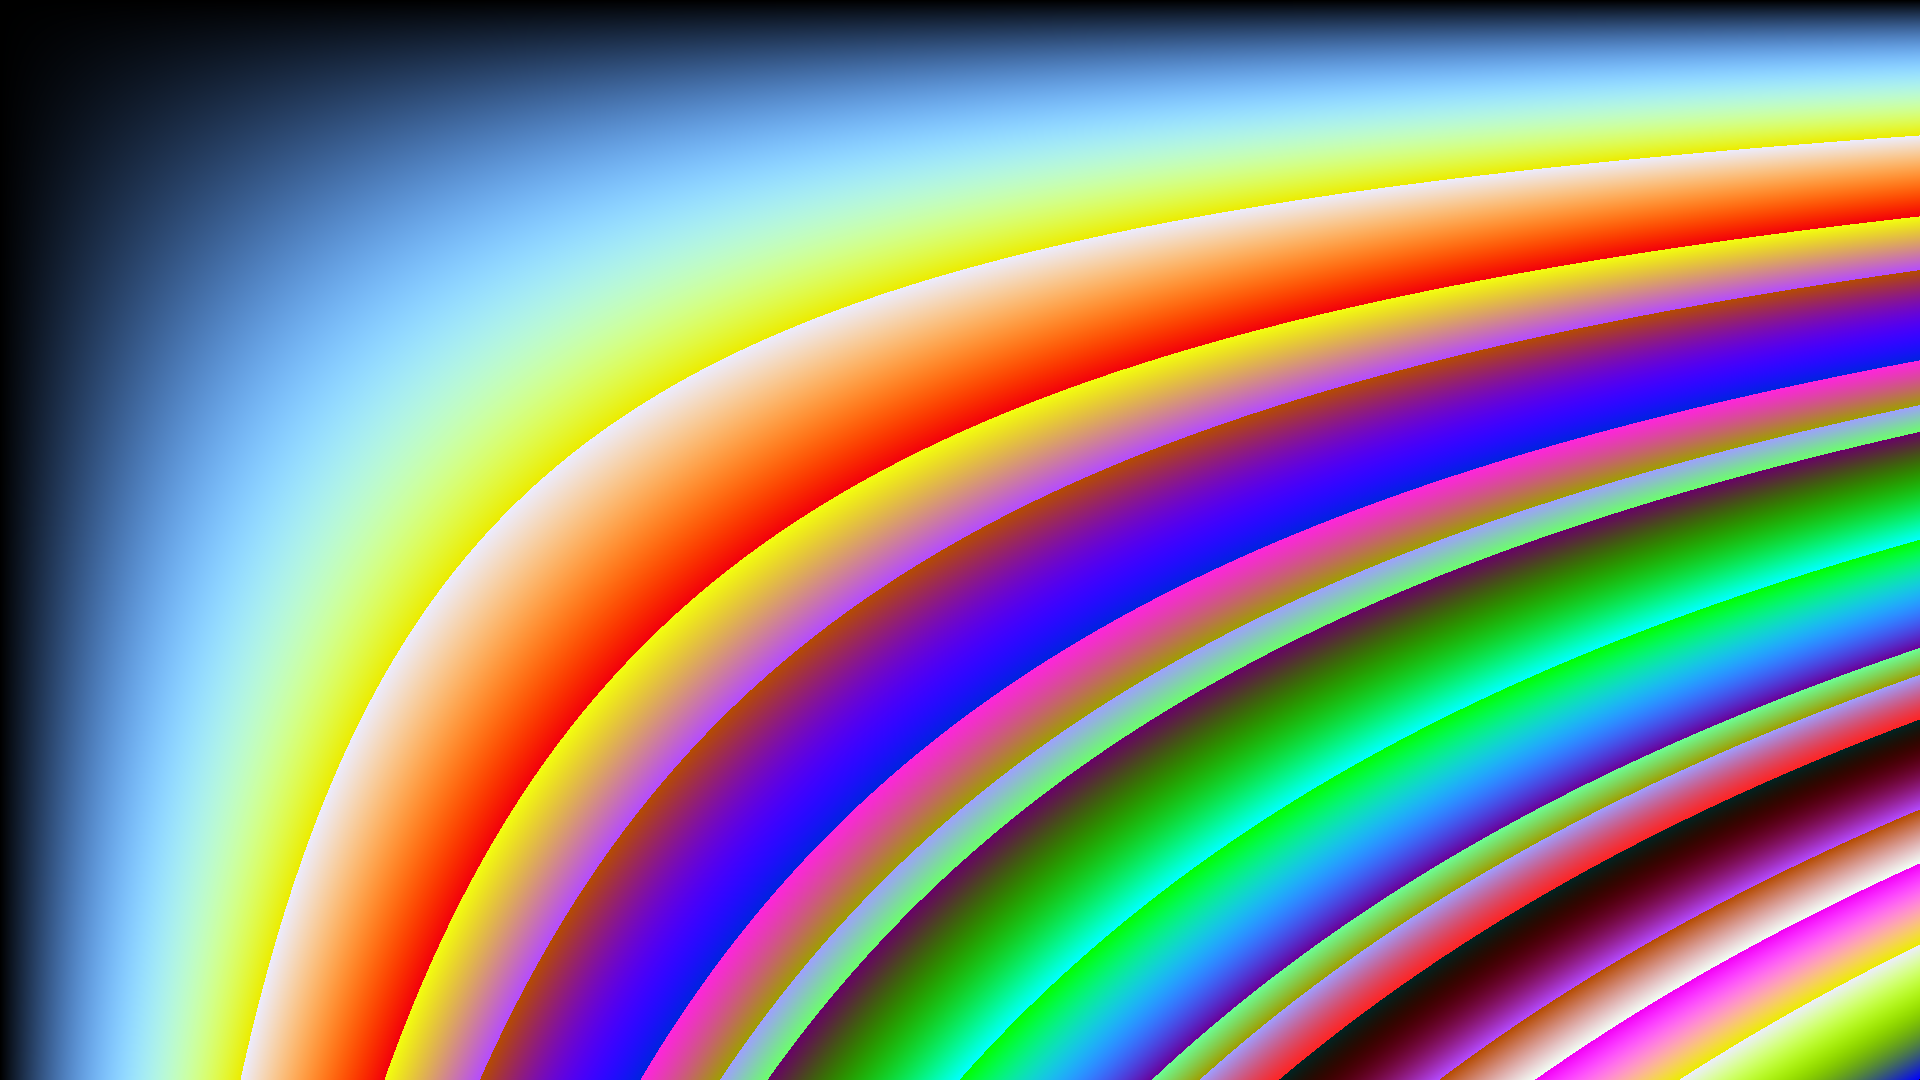
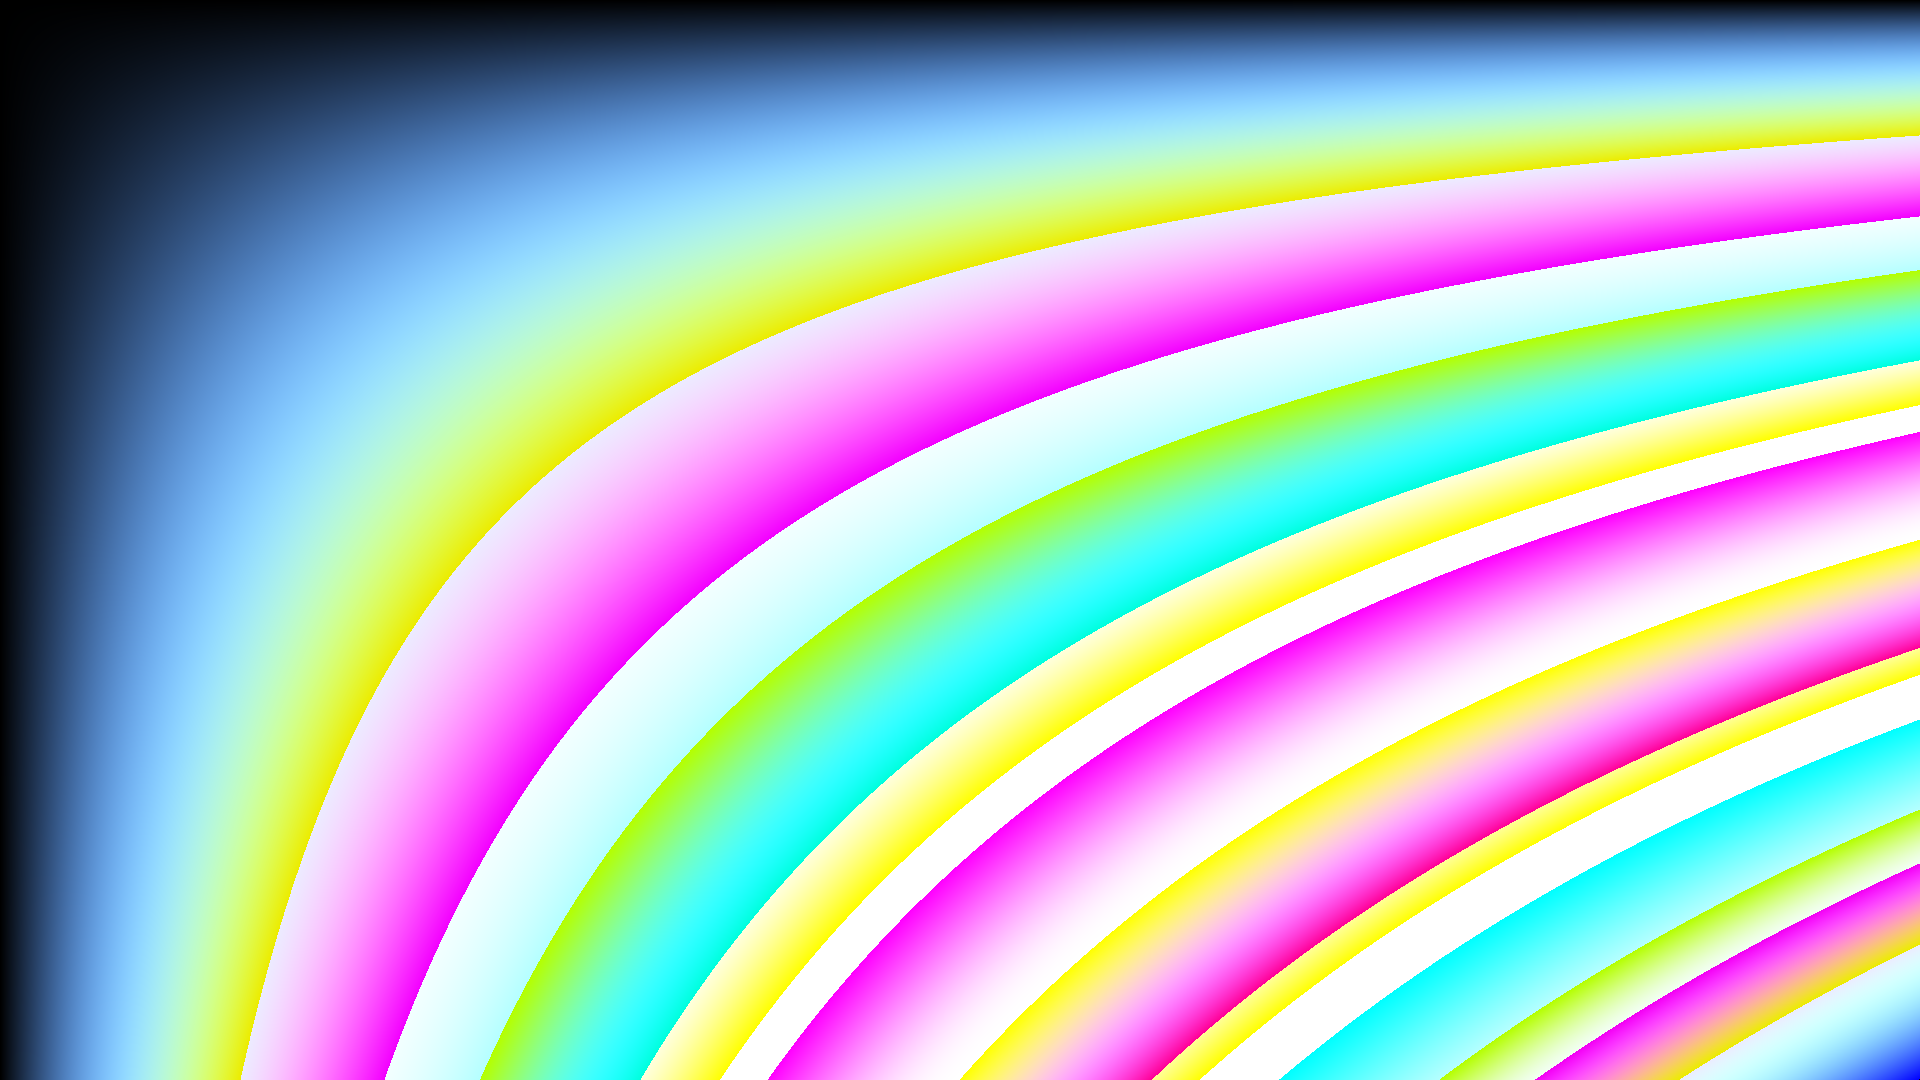
Fixed Deprecation Warning of passing negative values to numpy array with type uint8

diff --git a/RainbowRendererMain.py b/RainbowRendererMain.py
@@ -57,8 +57,11 @@ def normalizeTo8Bit(value):
     :param value: Float between 0 and 1
     :return: Int between 0 and 255
     """
+    #rounded = int(round((value+1.0) * 128, 0))
     rounded = int(round((value) * 255, 0))
     if rounded > 255:
+        rounded = 255
+    elif rounded < 0:
         rounded = 255
     return rounded
 
